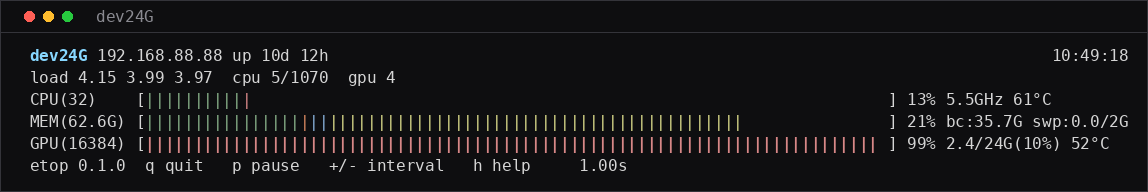
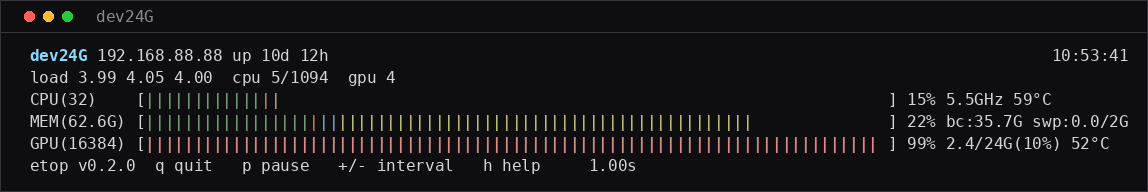
Release v0.2.0
Bump the package version to 0.2.0 and show it with a "v" prefix in the
footer, the --once header and --version, so it matches the release tag.

Since v0.1.0 etop gained CPU temperature and frequency, per-category
segmented CPU/memory bars, htop-compatible memory accounting with
buff/cache and swap, NVIDIA core counts, multi-GPU rows, the default
route IP in the header, bracketed bars and the screenshot tooling.

diff --git a/etop_tui/app.py b/etop_tui/app.py
@@ -243,7 +243,7 @@ def print_once(options: Options) -> None:
     if ip:
         identity += f"  {ip}"
     print(
-        f"etop {__version__}  {identity}  up {format_uptime(uptime)}"
+        f"etop v{__version__}  {identity}  up {format_uptime(uptime)}"
         f"  load {loads[0]:.2f} {loads[1]:.2f} {loads[2]:.2f}"
     )
     print()
@@ -348,7 +348,7 @@ def build_parser() -> argparse.ArgumentParser:
         "--ascii", action="store_true", help="use ASCII instead of Unicode"
     )
     parser.add_argument(
-        "--version", action="version", version=f"%(prog)s {__version__}"
+        "--version", action="version", version=f"%(prog)s v{__version__}"
     )
     return parser
 

diff --git a/etop_tui/render.py b/etop_tui/render.py
@@ -486,7 +486,7 @@ def draw_header(
 def draw_footer(
     win, rect: Rect, interval: float, paused: bool, pal: Palette
 ) -> None:
-    version = f" etop {__version__}"
+    version = f" etop v{__version__}"
     if rect.w < 62:
         text = f"{version}  q quit  p pause  +/-  h help"
     else:

diff --git a/etop_tui/__init__.py b/etop_tui/__init__.py
@@ -1,3 +1,3 @@
 """etop: a small htop-like terminal monitor for CPU, memory, GPU and VRAM."""
 
-__version__ = "0.1.0"
+__version__ = "0.2.0"

diff --git a/README.md b/README.md
@@ -36,7 +36,7 @@ etop
  CPU(20)    [|||||                 ] 13% 3.2GHz 52°C
  MEM(15.6G) [||||||||||||||||||||||] 62% bc:5.2G swp:3.2/8G
  GPU(16384) [|||||||||||||||||     ] 79% 14.9/16G(93%) 54°C
- etop 0.1.0  q quit  p pause  +/-  h help
+ etop v0.2.0  q quit  p pause  +/-  h help
 ```
 
 示例只展示字符，实际颜色见下方的分段说明。
@@ -151,7 +151,7 @@ etop [-d SECONDS] [--once] [--gpu {auto,nvidia,sysfs,none}]
  load 0.14 0.37 0.36  cpu 2/2028  gpu 4
  CPU(64)   [|||||] 56% 2.4GHz 61°C
  MEM(504G) [|||||] 15% bc:127G swp:12.0/64G
- etop 0.1.0  q quit  p pause  +/-  h help
+ etop v0.2.0  q quit  p pause  +/-  h help
 ```
 
 空间富余时在底部留白。极紧尺寸下 footer（含版本和快捷键）会自动省略，以保留全部指标行；高度不足时 GPU 行会被暂时隐藏（只保留 CPU 和内存）。低于 **44x5** 时显示形如 `too small (min 44x5)` 的提示。
